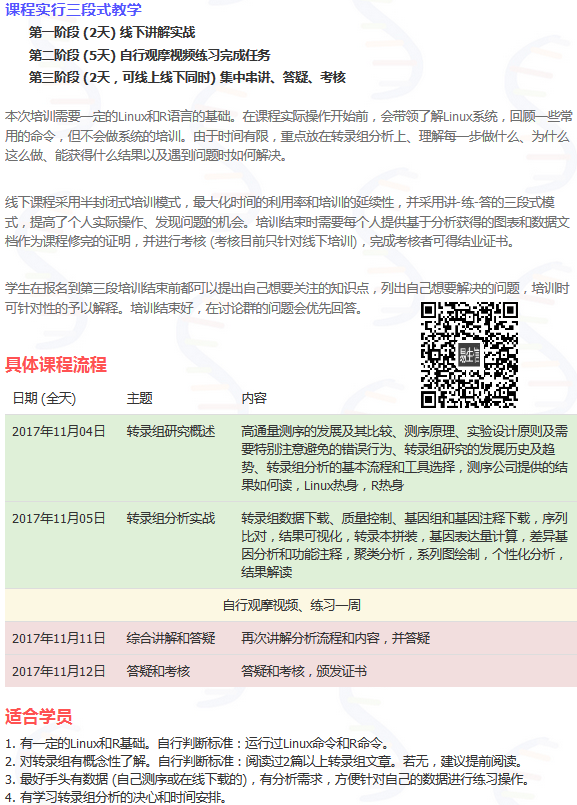
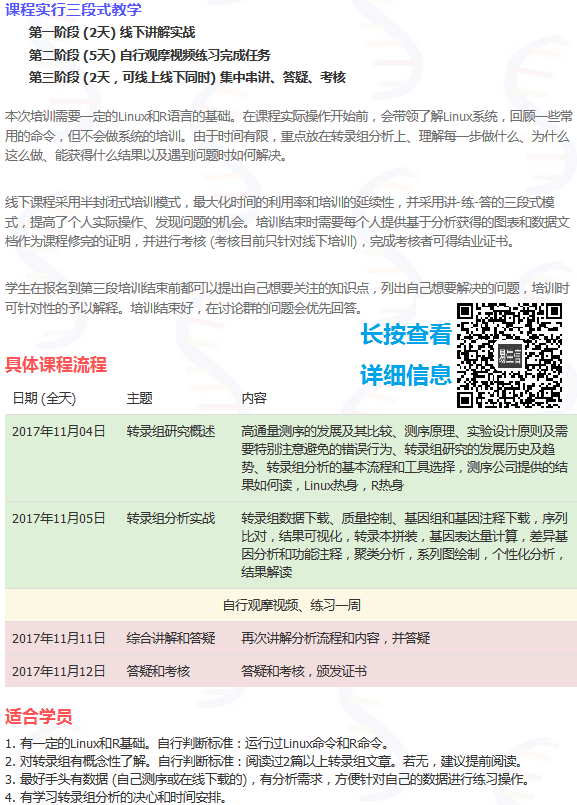
enrich FOR <_posts/2017-10-14-enrichment-analysis.md images/train/*>

Changed region(s): [[0.6239, 0.3727, 0.9983, 0.528]]

diff --git a/_posts/2017-10-14-enrichment-analysis.md b/_posts/2017-10-14-enrichment-analysis.md
@@ -1,0 +1,281 @@
+---
+title: 富集分析一网打进
+author: ct
+layout: post
+categories:
+  - Bioinfo
+tags:
+  - Bioinfo
+---
+
+富集分析是生物信息分析中快速了解目标基因或目标区域功能倾向性的最重要方法之一。其中代表性的计算方式有两种，一是基于筛选的差异基因，领用超几何检验判断上调或下调基因在哪些GO或KEGG或其它定义的通路富集。假设背景基因数目为`m`，背景基因中某一通路`pathway`中注释的基因有`n`个；上调基因有`k`个，上调基因中落于通路`pathway`的数目为`l`。简单来讲就是比较`l/k`是否显著高于`n/m`，即上调基因中落在通路`pathway`的比例是否高于背景基因在这一通路的比例。(实际计算时，是算的`odds ratio`的差异，`l/(k-l)` vs `(n-l)/(m-k-n+l)`)。这就是常说的GO富集分析或KEGG富集分析，可以做的工具很多，[GOEAST](https://mp.weixin.qq.com/s/l6j2encDfEQkt2UeNCMFhg)是其中一个最好用的在线功能富集分析工具，数据库更新实时，操作简单，并且可以直接用之前介绍的方法绘制[DotPlot](http://mp.weixin.qq.com/s/x7IX38yPG_cbs1vdHLQcGA)。
+
+另一种方式是不硬筛选差异基因，而是对其根据表达量或与表型的相关度排序，然后判断对应的基因集是否倾向于落在有序列表的顶部或底部，从而判断基因集合对表型差异的影响和筛选有影响的基因子集。这叫GSEA富集分析，注释信息可以是GO，KEGG，也可以是其它任何符合格式的信息。[GSEA富集分析 - 界面操作](http://mp.weixin.qq.com/s/3Nd3urhfRGkw-F0LGZrlZQ)详细讲述了GSEA分析的原理、可视化操作和结果解读。
+
+微信公众号[biobabble](https://mp.weixin.qq.com/s/rcG6fmJVjRwI9mTanC-wDg)的主创Y叔写有9个Bioconductor包，其中两个`DOSE`和`clusterProfiler`囊括了前面提到的两种富集分析方法。并且不只支持GO、KEGG数据库，还支持Disease Ontology、MsEH enrichment analysis、Reactome通路分析等。具体可见其[公众号](https://mp.weixin.qq.com/s/rcG6fmJVjRwI9mTanC-wDg)，或软件的文档页 <https://guangchuangyu.github.io/clusterProfiler/>。
+
+这么强大的工具，学习起来的路子却不是一帆风顺，最开始的拦路虎是软件的安装，系统较老配合上软件包更新较快，导致经常安装的是旧版本，用起来会遇到不少坑。直到有了[conda](https://mp.weixin.qq.com/s/A4_j8ZbyprMr1TT_wgisQQ)，安装再也不是问题。解决了动态库依赖后，可以在Github安装最新的修改。
+
+另外一个是文档较少，在R终端，直接使用`help`命令查看到的使用提示信息较少，寥寥几句，看过总觉得不踏实。~~~在线文档页内容少、更新慢~~~。这是最开始学习时遇到的问题，这次秉着负责的精神，又重新读了文档页，发觉不需要再写一遍了，内容挺全的，主要是这一页http://guangchuangyu.github.io/2016/01/go-analysis-using-clusterprofiler/)。自己对着文档页核对了下之前写的程序，补充几点。
+
+### GO富集分析
+
+首先还是列一个完整的例子。输入最好是用`ENTREZ ID`，值比较固定，不建议GeneSymbol，容易匹配出问题。
+
+```r
+entrezID_text <- "4312
+8318
+10874
+55143
+55388
+991
+6280
+2305
+9493
+1062
+3868
+4605
+9833
+9133
+6279
+10403
+8685
+597
+7153
+23397"
+
+entrezID <- read.table(text=entrezID_text, header=F)
+head(entrezID)
+```
+
+```
+V1
+<int>
+			
+1	4312			
+2	8318			
+3	10874			
+4	55143			
+5	55388			
+6	991	
+```
+
+转换为向量
+
+```r
+entrezID <- entrezID$V1
+head(entrezID)
+```
+
+```r
+[1] 4312 8318 10874 55143 55388 991
+```
+
+```r
+# 这里的ENTREZ ID是从clusterProfiler里面提取是，是人的，
+# 所以用了人的注释库, org.Hs.eg.db
+library(org.Hs.eg.db)
+```
+
+开始富集分析
+
+```r
+# readable=T: 原文档无这个参数，使用的是setReadble函数
+MF <- enrichGO(entrezID, "org.Hs.eg.db", ont = "MF", keytype = "ENTREZID",
+          pAdjustMethod = "BH", pvalueCutoff  = 0.05,
+          qvalueCutoff  = 0.1, readable=T)
+head(summary(MF))
+```
+
+![](http://blog.genesino.com/images/clusterprofiler_GO1.png)
+
+
+去除冗余度高的条目 (参考<http://guangchuangyu.github.io/2015/10/use-simplify-to-remove-redundancy-of-enriched-go-terms/>)
+
+```r
+result <- simplify(MF, cutoff=0.7, by="p.adjust", select_fun=min)
+
+# 去除前
+dim(MF)
+# [1] 367 9
+
+# 去除后
+dim(result)
+[1] 142 9
+```
+
+绘制泡泡图 （[DotPlot](http://mp.weixin.qq.com/s/x7IX38yPG_cbs1vdHLQcGA) [Dotplot2](https://mp.weixin.qq.com/s/bloMPypAkQ3Ovlh406M-FQ)）
+
+```
+dotplot(result, showCategory = 10)
+```
+
+绘制网络图(边的宽度代表两个富集的Term共有的基因数目，点大小代表条目内基因数目多少，颜色代表P-value，值越小越红；如果想改变网络布局，参考`igraph`文档)
+
+```r
+enrichMap(result, vertex.label.cex=1.2, layout=igraph::layout.kamada.kawai)
+```
+
+另外一种网络图由`cnetplot`函数获得，可以映射基因的表达量。自己尝试了下，需要调整字体和显示的条目多少。盗图展示如下。基因与其被注释的条目连线，点的颜色代表表达变化，圈的大小代表对应注释内基因数目多少。
+
+```r
+# geneList为一个vector，每个元素的名字为基因名，值为FoldChange，用于可视化点。
+# > str(geneList)
+# Named num [1:12495] 4.57 4.51 4.42 4.14 3.88 ... - attr(*, "names")= chr [1:12495] "4312" "8318" "10874" "55143" ...
+
+# 这个geneList怎么获得的，会在后面的GSEA分析时提到
+cnetplot(result, foldChange=geneList)
+```
+
+![](http://guangchuangyu.github.io/blog_images/Bioconductor/clusterProfiler/2016_GO_analysis_using_clusterProfiler_files/figure-markdown_strict/unnamed-chunk-7-3.png)
+
+如果想自己调整图的布局，还是建议把输出结果转换为Cytoscape可以识别的两列表格形式(如下)，再赋值不同的属性就可以了。
+
+```bash
+awk 'BEGIN{OFS=FS="\t"}{if(FNR==1) print "Gene\tTerm"; else {split($8,geneL,"/"); for(i in geneL) print geneL[i],$2}}' MF | head
+Gene	Term
+PRDX6	cell adhesion molecule binding
+MFGE8	cell adhesion molecule binding
+FSCN1	cell adhesion molecule binding
+ATXN2L	cell adhesion molecule binding
+YWHAZ	cell adhesion molecule binding
+CTNNA2	cell adhesion molecule binding
+ADAM15	cell adhesion molecule binding
+LDHA	cell adhesion molecule binding
+PKM	cell adhesion molecule binding
+```
+
+### KEGG富集分析
+
+输入Gene ID的格式和类型与`enrichGO`一致。参考 <http://guangchuangyu.github.io/2015/02/kegg-enrichment-analysis-with-latest-online-data-using-clusterprofiler/>。
+
+```
+# clusterProfiler3.4.4版本是没有readable参数的，原文档有
+kk <- enrichKEGG(entrezID, organism="hsa", pvalueCutoff=0.05, pAdjustMethod="BH", 
+                 qvalueCutoff=0.1)
+```
+
+输出结果的格式和可视化方式与上面GO富集一致，不再赘述。
+
+另外一个没有解决的问题是`setReadable`函数的使用 (用测试文档提供的数据集报出如下错误)
+
+```r
+setReadable(kk, "org.Hs.eg.db")
+Error in EXTID2NAME(OrgDb, genes, keytype) : keytype is not supported...
+
+# 即便是如下操作也没有作用
+
+a = bitr_kegg(names(geneList), fromType = 'ncbi-geneid', toType="kegg", organism="hsa")
+# Warning message:
+# In bitr_kegg(names(geneList), fromType = "ncbi-geneid", toType = "kegg",  :
+#  0.77% of input gene IDs are fail to map...
+
+enrichKEGG(a$kegg, organism="hsa", keyType="kegg", pvalueCutoff=0.05, pAdjustMethod="BH", 
+                  qvalueCutoff=0.1)
+				  
+setReadable(kk, org.Hs.eg.db)
+
+#  Error in EXTID2NAME(OrgDb, genes, keytype) : keytype is not supported...
+```
+
+对拟南芥来说，分析之前需要先把Entrez ID转换为kegg再用上述命令做富集分析
+
+```r
+entrezID <- bitr_kegg(entrezID, fromType='ncbi-geneid', toType='kegg', organism="ath")
+kk <- enrichKEGG(entrezID$kegg, organism="ath", pvalueCutoff=0.05, pAdjustMethod="BH", 
+                 qvalueCutoff=0.1)
+# 这个setreadble是可以转换成功的
+result <- setReadable(kk, "org.At.tair.db", keytype="TAIR")				 
+```
+
+
+### GSEA分析
+
+GSEA的解释和介绍见[GSEA富集分析 - 界面操作](http://mp.weixin.qq.com/s/3Nd3urhfRGkw-F0LGZrlZQ)。
+
+注意读入的基因列表是要按照表达差异降序排列 (升序也可以，相当于样品做了对调)。这里排序方式可以是表达差异，也可以是其它方式，只要方便解释即可，即从上到下，或从前到后，基因对表型的贡献有一致的变化趋势就好。不同的排序参数和排序方式需要不同的对结果的解释。
+
+```r
+id_with_fc = "ID;FC
+4312;2
+8318;3
+10874;4
+55143;5
+55388;6
+991;7"
+
+id_with_fc <- read.table(text=id_with_fc, header=T, sep=";")
+
+id_with_fc2 <- id_with_fc[,2]
+names(id_with_fc2) <- id_with_fc[,1]
+
+# 排序是必须的，记住排序方式
+id_with_fc2 <- sort(id_with_fc2, decreasing=T)
+
+gsecc <- gseGO(geneList=id_with_fc2, ont="CC", OrgDb=org.Hs.eg.db, verbose=F)
+
+# 昨天测试了其它数据，参数无问题。这里没有实际运行，盗用数据，每列的解释见本段开头的文章
+head(as.data.frame(gsecc))
+
+##                    ID                              Description setSize
+## GO:0031982 GO:0031982                                  vesicle    2880
+## GO:0031988 GO:0031988                 membrane-bounded vesicle    2791
+## GO:0005576 GO:0005576                     extracellular region    3296
+## GO:0065010 GO:0065010 extracellular membrane-bounded organelle    2220
+## GO:0070062 GO:0070062                    extracellular exosome    2220
+## GO:0044421 GO:0044421                extracellular region part    2941
+##            enrichmentScore       NES      pvalue   p.adjust    qvalues
+## GO:0031982      -0.2561837 -1.222689 0.001002004 0.03721229 0.02816364
+## GO:0031988      -0.2572169 -1.226003 0.001007049 0.03721229 0.02816364
+## GO:0005576      -0.2746489 -1.312485 0.001009082 0.03721229 0.02816364
+## GO:0065010      -0.2570342 -1.222048 0.001013171 0.03721229 0.02816364
+## GO:0070062      -0.2570342 -1.222048 0.001013171 0.03721229 0.02816364
+## GO:0044421      -0.2744658 -1.310299 0.001014199 0.03721229 0.02816364
+
+# 绘制GSEA图
+gseaplot(gsecc, geneSetID="GO:0000779")
+```
+
+### 自定义数据集分析
+
+如果想用clusterProfiler的函数对自己注释的数据进行功能富集分析或GSEA分析，需要提供如下格式的注释数据。后续分析就类似了。
+
+```r
+self_anno <- "ont;gene
+KEGG_GLYCOLYSIS_GLUCONEOGENESIS;gene1
+KEGG_GLYCOLYSIS_GLUCONEOGENESIS;gene2
+KEGG_GLYCOLYSIS_GLUCONEOGENESIS;gene3
+KEGG_GLYCOLYSIS;gene1
+KEGG_GLYCOLYSIS;gene4 
+KEGG_CYP;gene5"
+
+self_anno <- read.table(text=self_anno, header=T, sep=";", quote="")
+
+# 没具体看代码怎么写的，保险期间，设置跟示例一样的列名字
+colnames(self_anno) <- c("ont", "gene")
+
+geneL <- c("gene1", "gene2", "gene4")
+
+self_enrich <- enricher(geneL, TERM2GENE=self_anno)
+
+self_gsea <- GSEA(geneL, TERM2GENE=self_anno, verbose=F)
+```
+
+
+### 九天学会转录组高级分析
+
+经过紧张的筹备，生信宝典团队要开培训课了，第一期是大家最为关注的转录组分析，实行三段式培训，`集中讲解实战(2天)-自行练习(5天)-再讲解答疑考核(2天)`。<mark>点击原文可查看具体信息</mark>。
+
+![](http://blog.genesino.com/images/train/transcriptome_train.png)
+
+欢迎大家咨询、报名和提出建议。
+
+
+
+### Reference
+
+1. <https://guangchuangyu.github.io/clusterProfiler/>
+2. <http://guangchuangyu.github.io/2016/01/go-analysis-using-clusterprofiler/>
+3. <http://igraph.org/c/doc/igraph-Layout.html>
+
+
